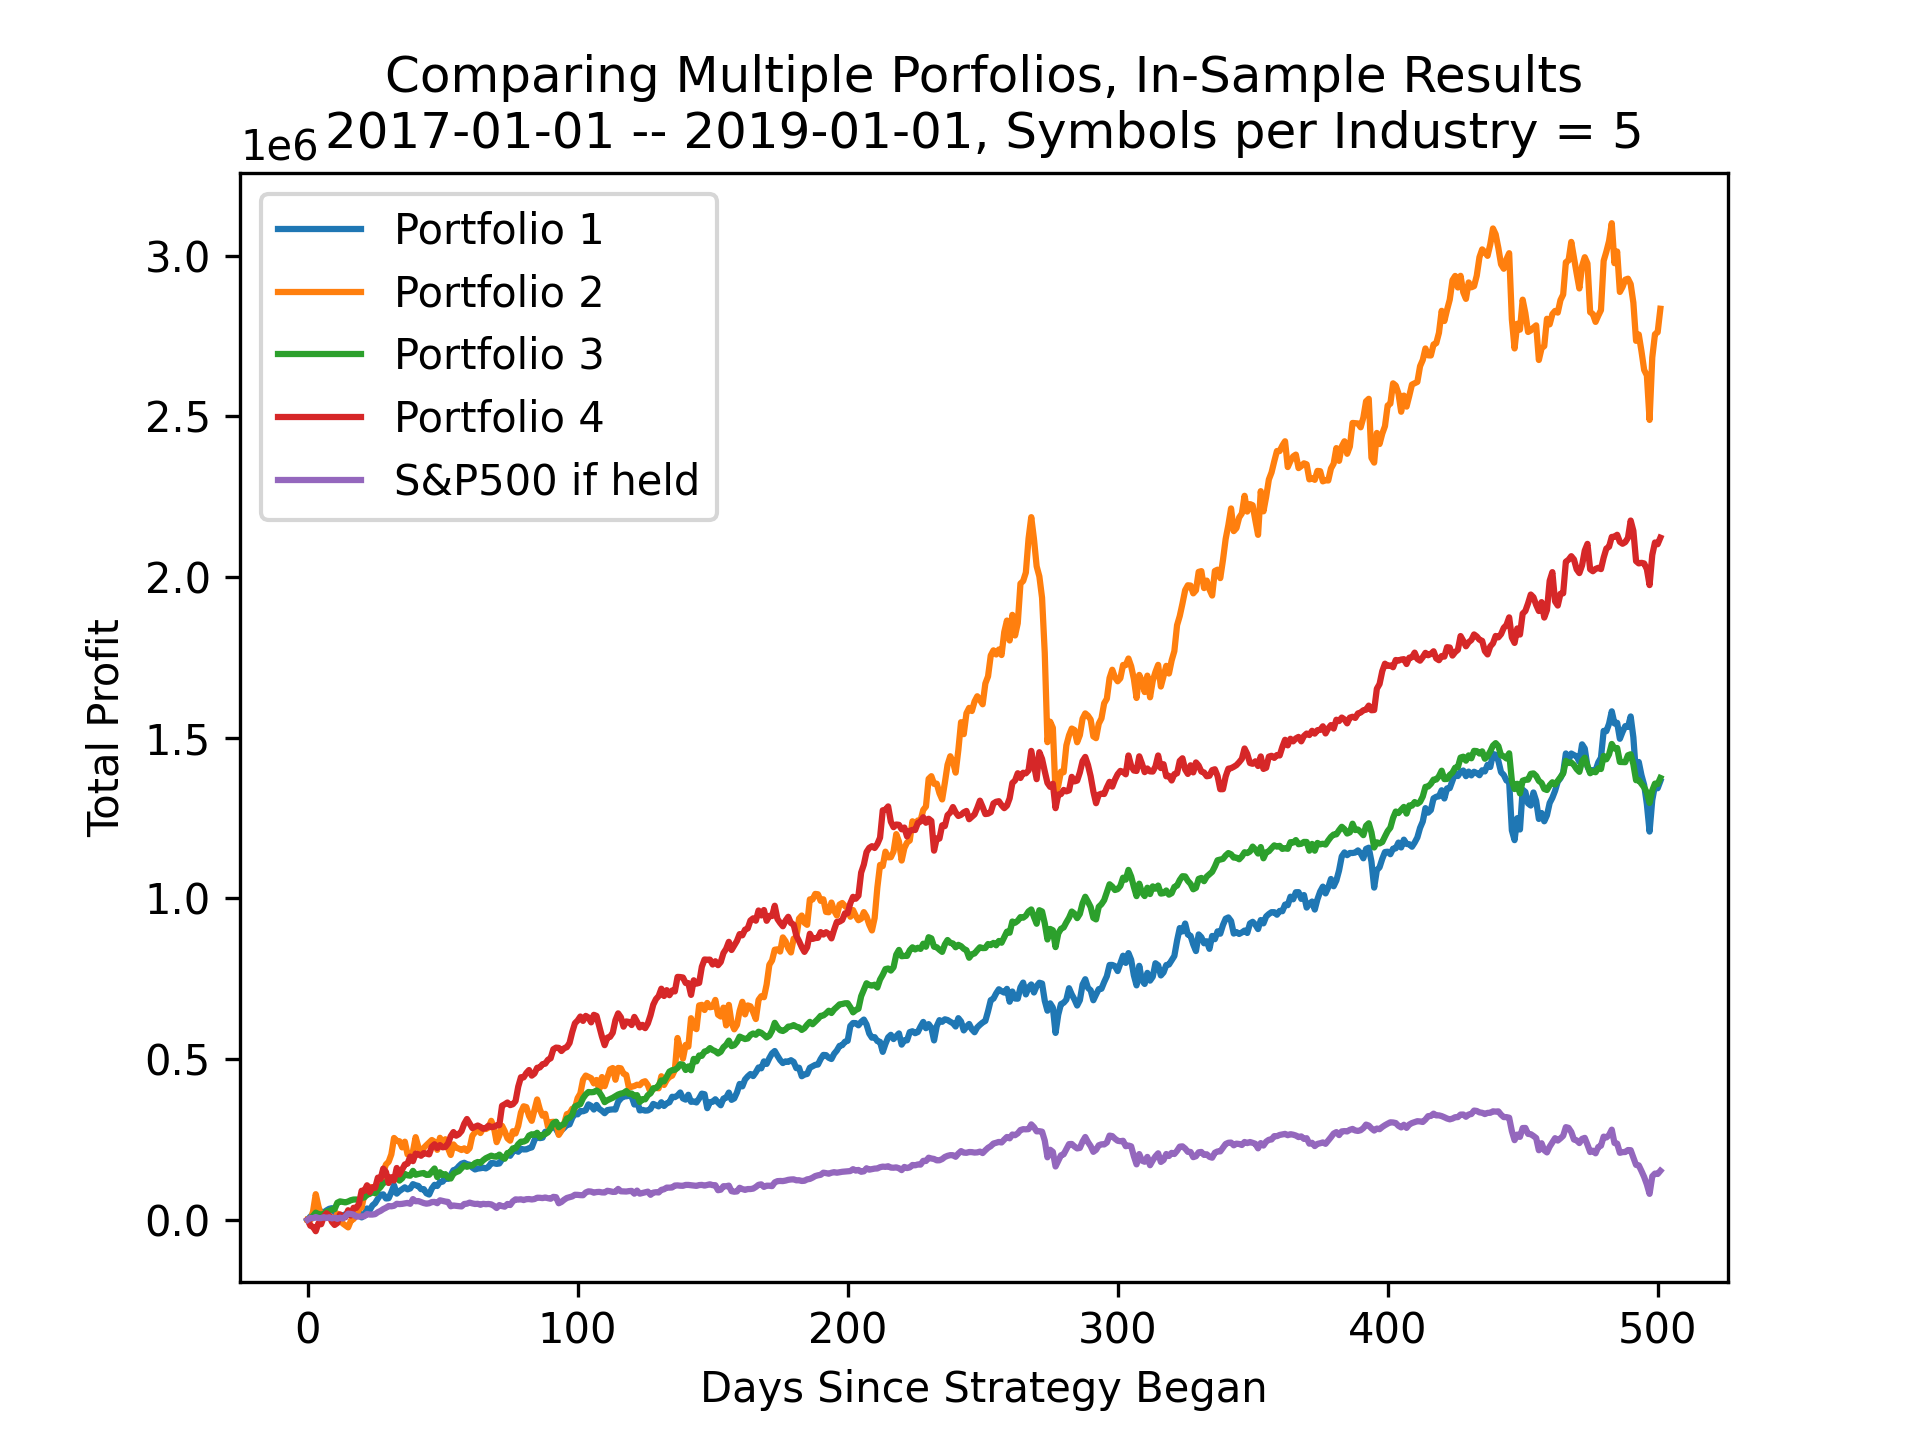
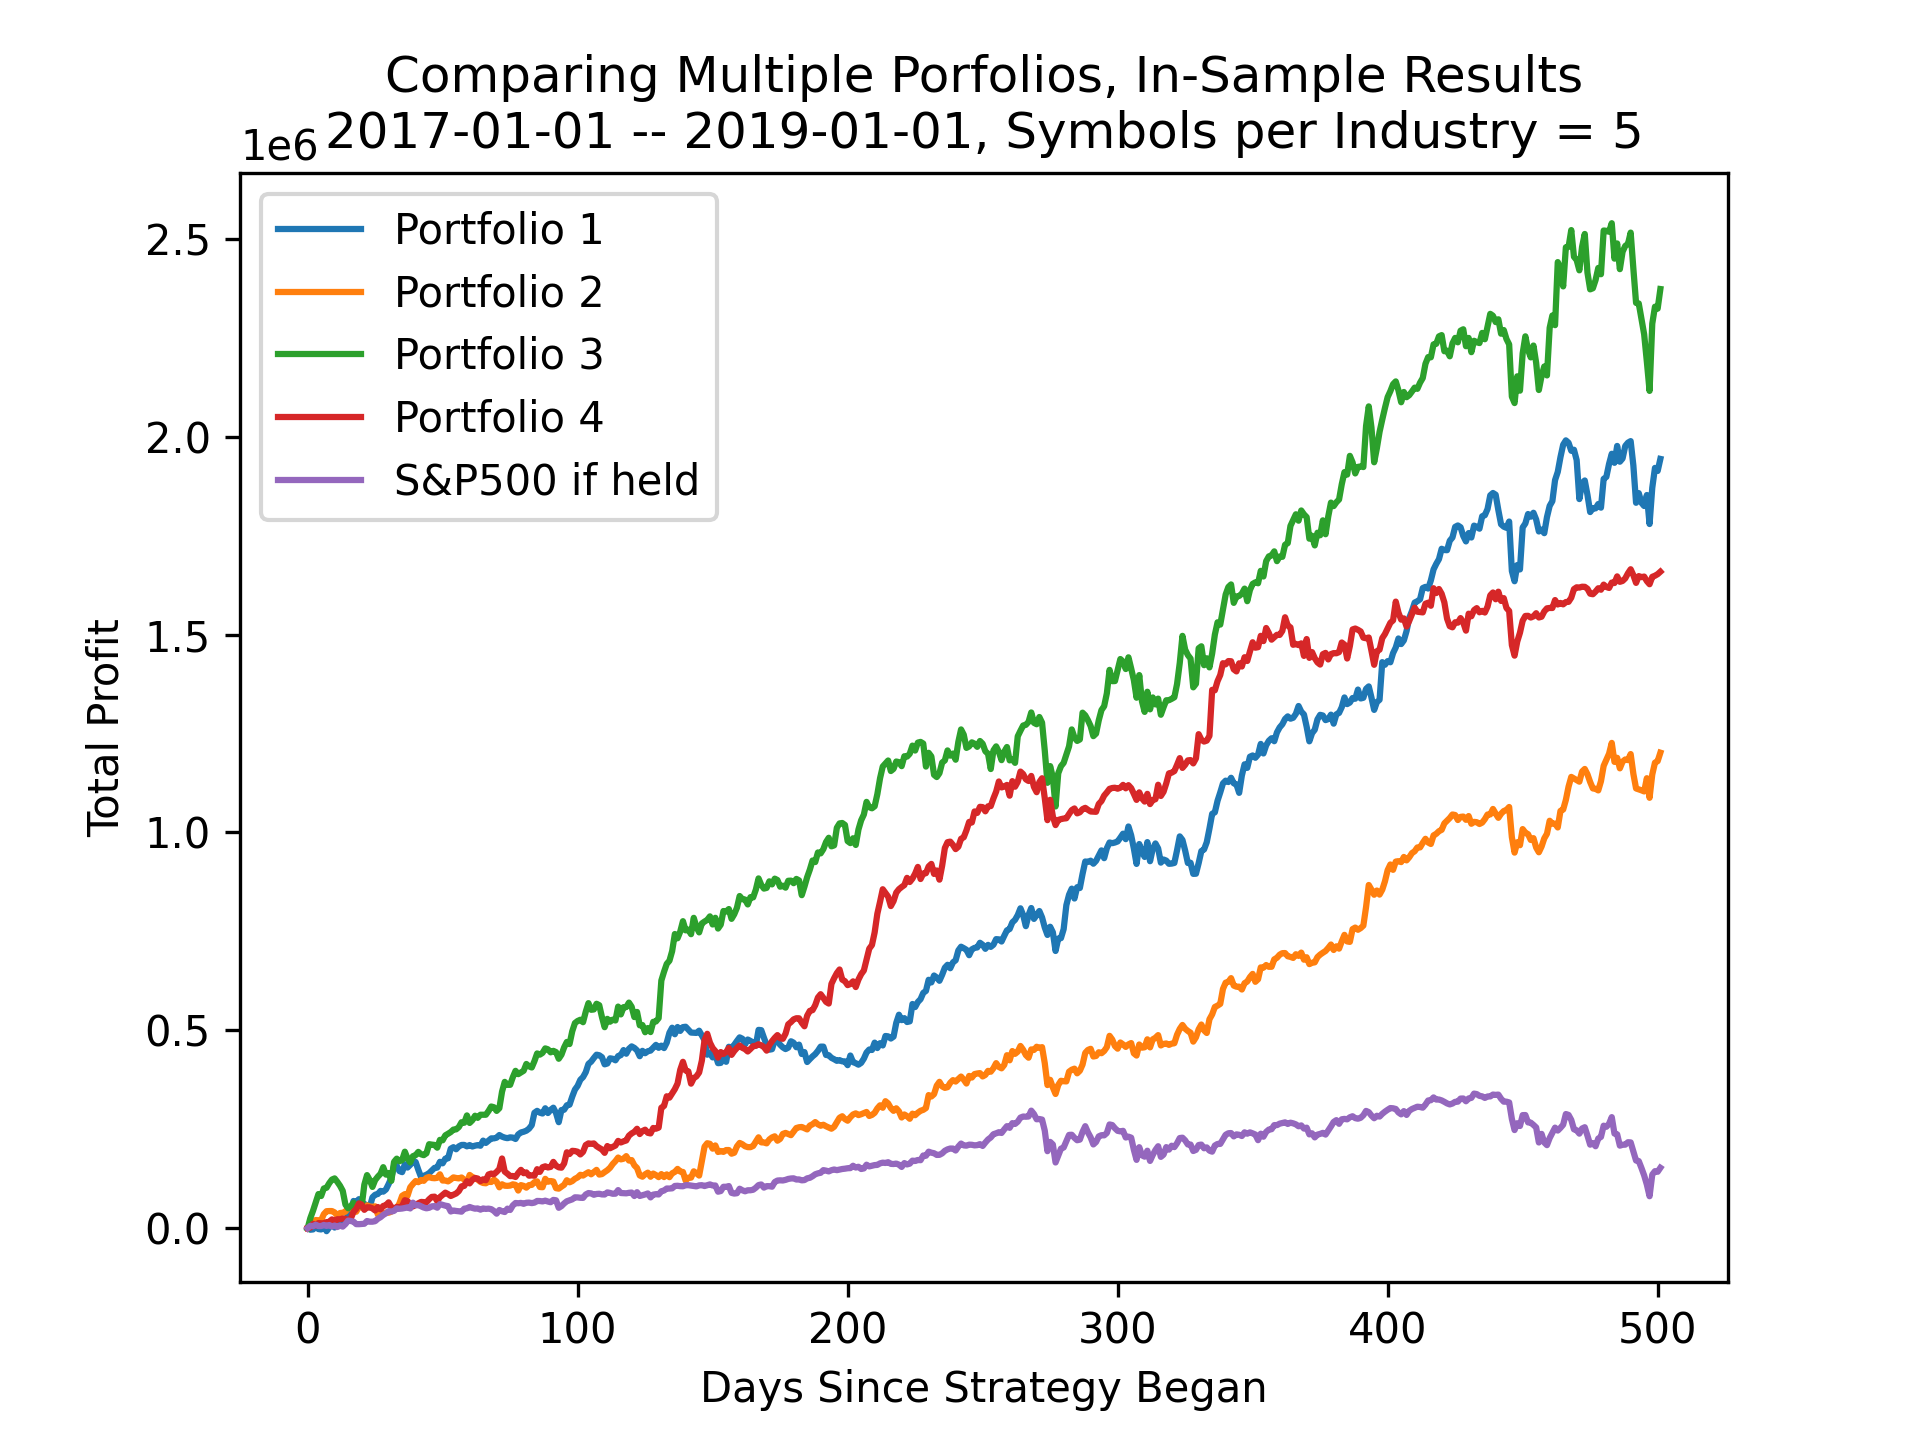
Photos added to readme

diff --git a/README.md b/README.md
@@ -93,19 +93,31 @@ Lastly is the fact that I'm still a student, and still learning how to build tra
 
 
 ## Graphs
-#### First strategy
+#### First strategy: 4 randomly selected portfolios versus SPY
 <p align="middle">
-    <img src="img/noncorona_5_in.png" width="400" />
-    <img src="img/noncorona_5_out.png" width="400" /> 
+    <img src="img/noncorona_10_in.png" width="400" />
+    <img src="img/noncorona_10_out.png" width="400" /> 
 </p>
 
-#### Fourth strategy
+#### Second strategy: 4 randomly selected portfolios versus SPY
+<p align="middle">
+    <img src="img/noncorona_20_in.png" width="400" />
+    <img src="img/noncorona_20_out.png" width="400" /> 
+</p>
+
+#### Third Strategy: 4 randomly selected portfolios versus SPY
+<p align="middle">
+    <img src="img/noncorona_5_in.png" width="400" />
+    <img src="img/noncorona_5_out.png" width="400" />   
+</p>
+
+#### Fourth strategy: 4 randomly selected portfolios versus SPY
 <p align="middle">
     <img src="img/corona_5_in.png" width="400" />
     <img src="img/corona_5_out.png" width="400" /> 
 </p>
 
-#### Scatterplot of Fourth Strategy
+#### Scatterplot of fourth strategy: Profits in-sample versus profits out of sample
 <p align="middle">
     <img src="img/corona_5_scatter.png" width="700" />
 </p>
